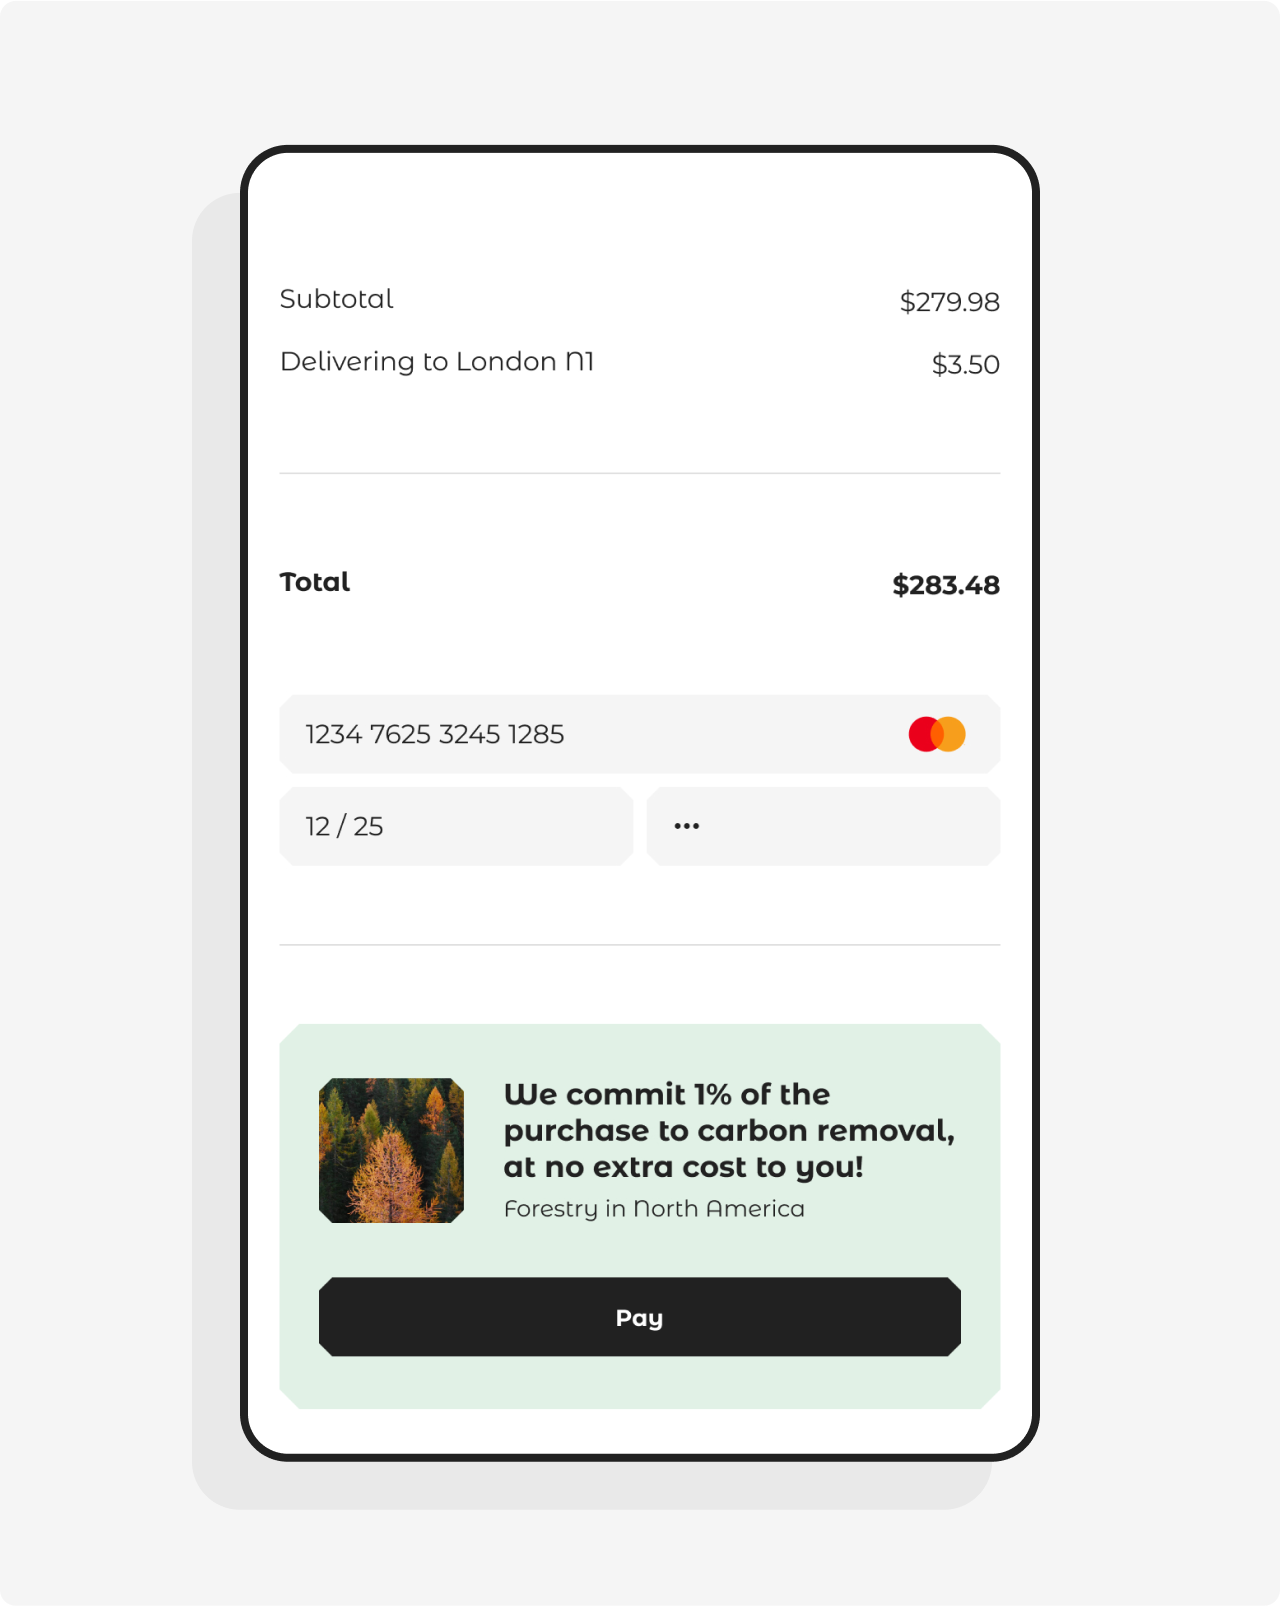
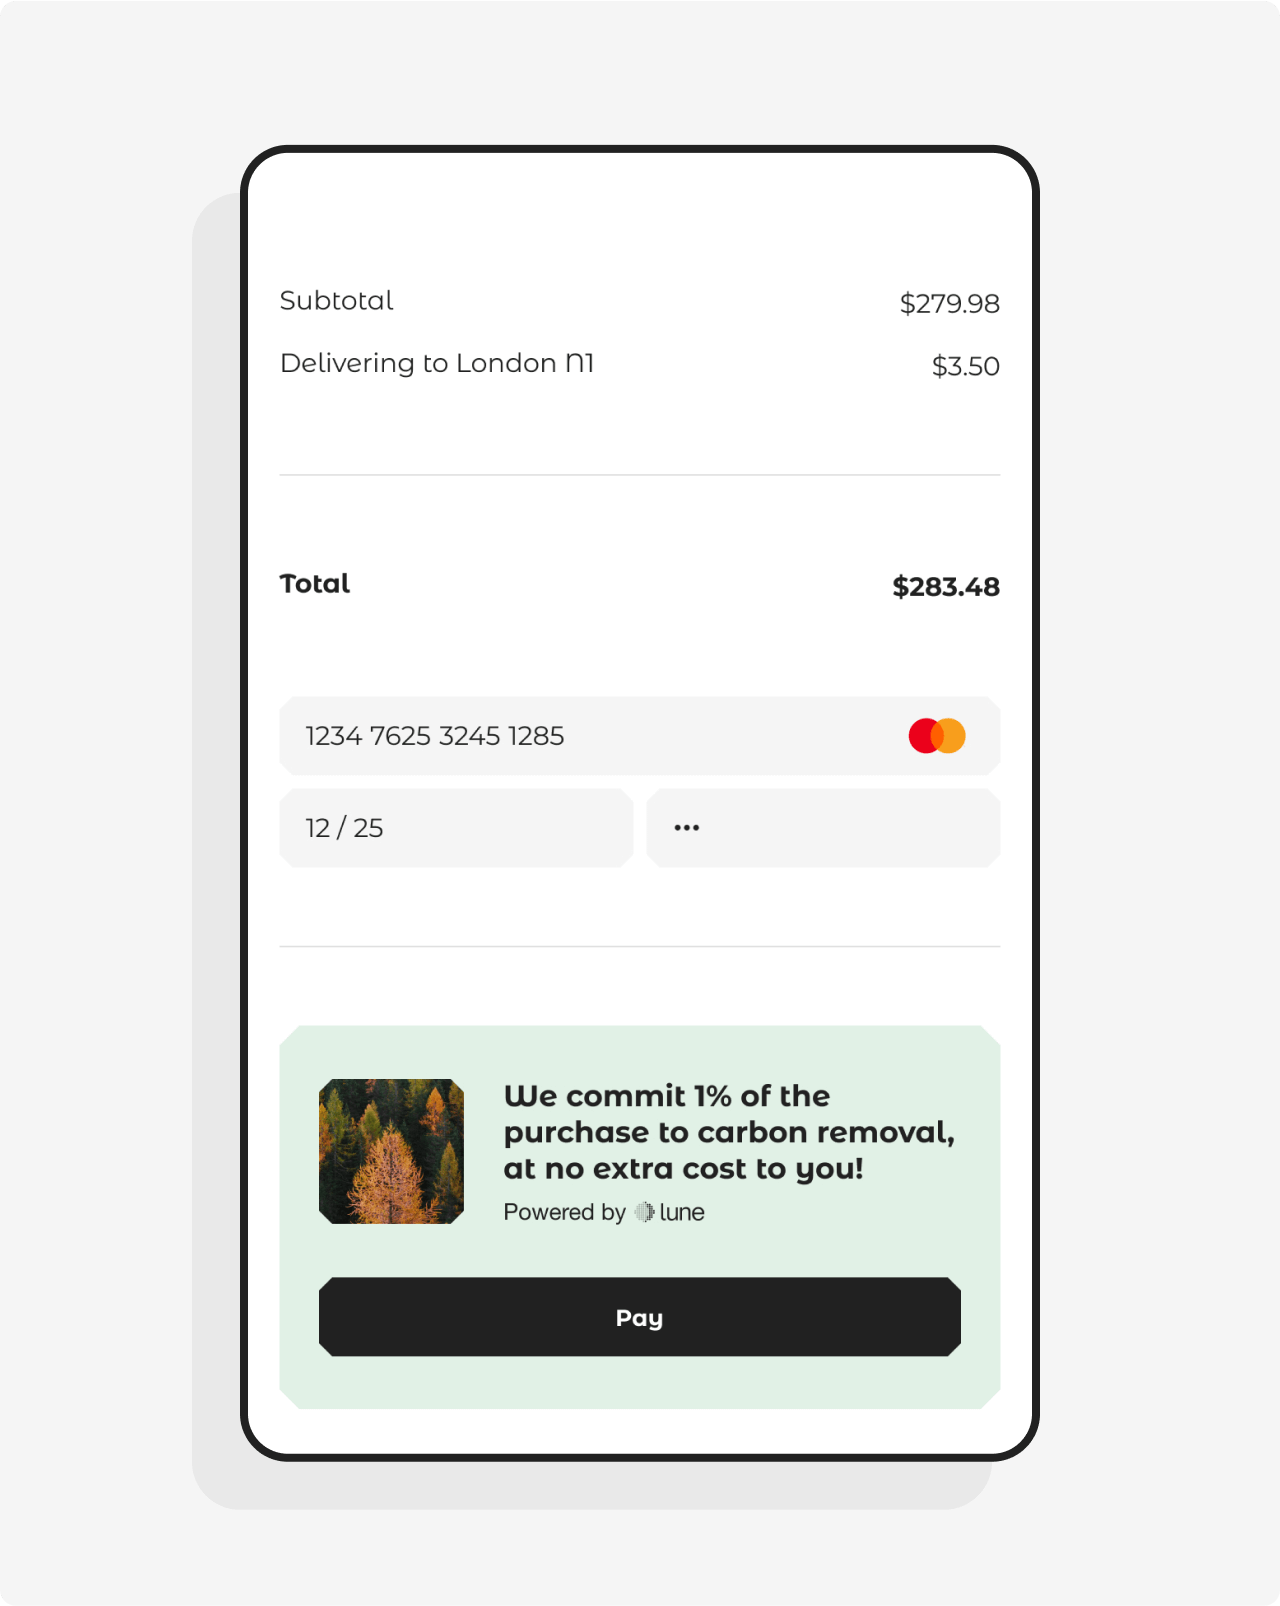
Replace payments guide images
I've made them generic.

diff --git a/docs/guides/integrate-payments.md b/docs/guides/integrate-payments.md
@@ -53,7 +53,7 @@ Feel free to contact our [support team](mailto:support@lune.com) if you encounte
 </div>
 <>
 
-![payments-intro](/img/payments-intro.png)
+![payments-intro](/img/payments-checkout.png)
 
 </>
 </ApiReferenceSection>
